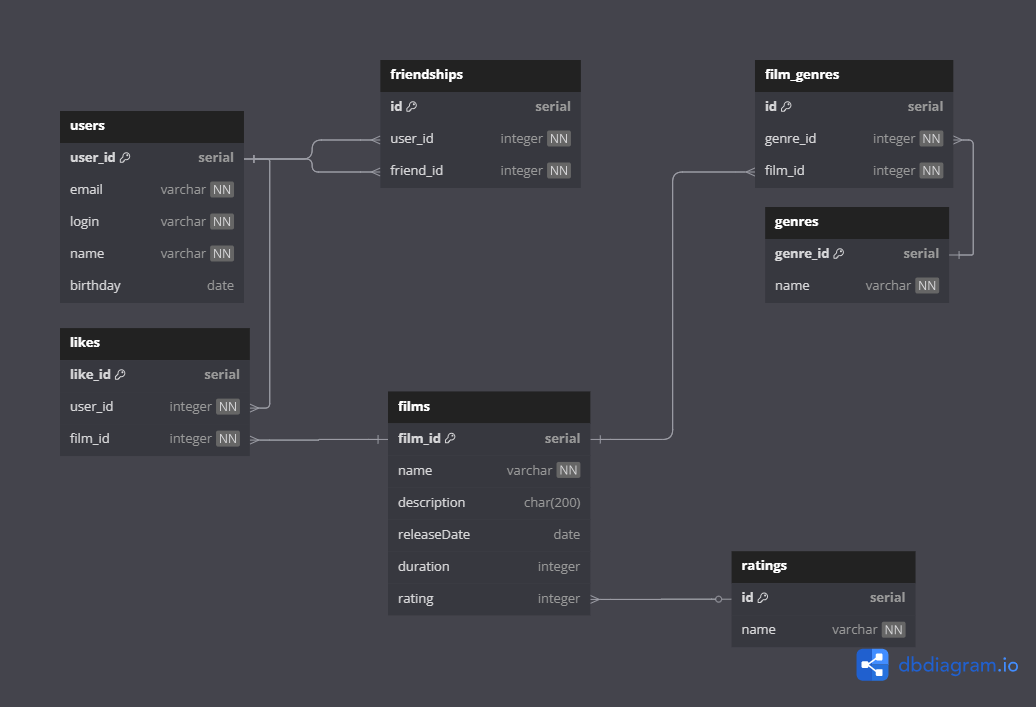
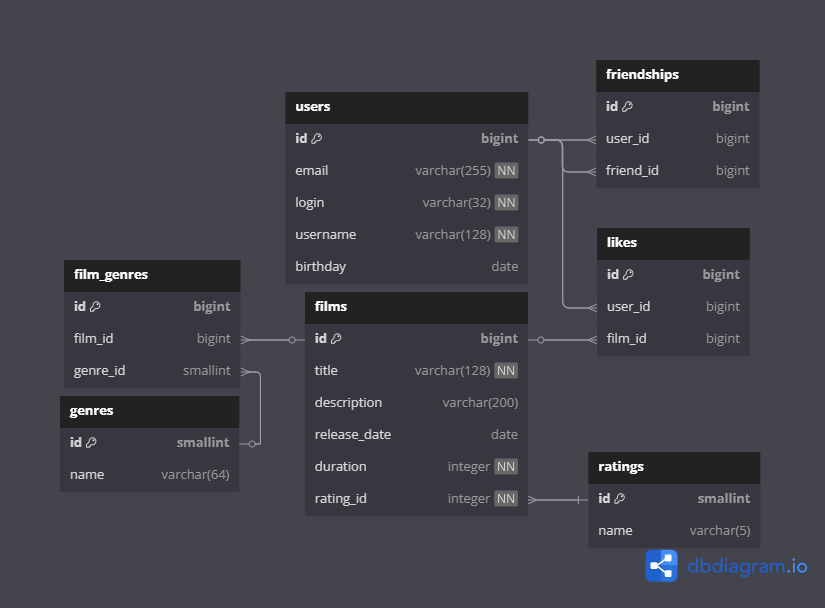
правка схемы бд

diff --git a/README.md b/README.md
@@ -324,35 +324,36 @@ logging.level.org.zalando.logbook: TRACE
 
 ## Таблица `films` (Фильмы)
 
-- `film_id` - уникальный идентификатор фильма (автоинкремент)
+- `id` - уникальный идентификатор фильма (автоинкремент)
 
-- `name` - название фильма (обязательное поле)
+- `title` - название фильма (обязательное поле)
 
 - `description` - описание фильма (максимум 200 символов)
 
-- `releaseDate` - дата выхода фильма
+- `rating_id` - рейтинг фильма (внешний ключ на таблицу ratings)
+
+- `release_date` - дата выхода фильма
 
 - `duration` - длительность фильма в минутах
 
-- `rating` - рейтинг фильма (внешний ключ на таблицу ratings)
 
 
 ## Таблица `users` (Пользователи)
 
-- `user_id` - уникальный идентификатор пользователя (автоинкремент)
-
-- `email` - электронная почта пользователя (уникальное, обязательное поле)
+- `id` - уникальный идентификатор пользователя (автоинкремент)
 
 - `login` - логин пользователя (уникальное, обязательное поле)
 
-- `name` - имя пользователя (обязательное поле)
+- `username` - имя пользователя (обязательное поле)
+
+- `email` - электронная почта пользователя (уникальное, обязательное поле)
 
 - `birthday` - дата рождения пользователя
 
 
 ## Таблица `likes` (Лайки)
 
-- `like_id` - уникальный идентификатор лайка (автоинкремент)
+- `id` - уникальный идентификатор лайка (автоинкремент)
 
 - `user_id` - идентификатор пользователя (внешний ключ на users)
 
@@ -370,7 +371,7 @@ logging.level.org.zalando.logbook: TRACE
 
 ## Таблица `genres` (Жанры)
 
-- `genre_id` - уникальный идентификатор жанра (автоинкремент)
+- `id` - уникальный идентификатор жанра (автоинкремент)
 
 - `name` - название жанра (уникальное, обязательное поле)
 
@@ -379,9 +380,10 @@ logging.level.org.zalando.logbook: TRACE
 
 - `id` - уникальный идентификатор записи (автоинкремент)
 
+- `film_id` - идентификатор фильма (внешний ключ на films)
+
 - `genre_id` - идентификатор жанра (внешний ключ на genres)
 
-- `film_id` - идентификатор фильма (внешний ключ на films)
 
 
 ## Таблица `ratings` (Рейтинги)
@@ -393,183 +395,83 @@ logging.level.org.zalando.logbook: TRACE
 
 
 <details>  
-<summary>Структура БД</summary>
+<summary>Структура DBML</summary>
 
 
-  ```sql
-  
-  Table films {
-  
-    film_id serial [primary key]
-  
-    name varchar [not null]
-  
-    description char(200)
-  
-    releaseDate date
-  
-    duration integer
-  
-    rating integer
-  
-  }
-  
-    
-  
-  Table users {
-  
-    user_id serial [primary key]
-  
-    email varchar [not null, unique]
-  
-    login varchar [not null, unique]
-  
-    name varchar [not null]
-  
-    birthday date
-  
-  }
-  
-    
-  
-  Table likes {
-  
-    like_id serial [primary key]
-  
-    user_id integer [not null]
-  
-    film_id integer [not null]
-  
-  }
-  
-    
-  
-  Table friendships {
-  
-    id serial [primary key]
-  
-    user_id integer [not null]
-  
-    friend_id integer [not null]
-  
-  }
-  
-    
-  
-  Table genres {
-  
-    genre_id serial [primary key]
-  
-    name varchar [not null, unique]
-  
-  }
-  
-    
-  
-  Table film_genres {
-  
-    id serial [primary key]
-  
-    genre_id integer [not null]
-  
-    film_id integer [not null]
-  
-  }
-  
-    
-  
-  Table ratings {
-  
-    id serial [primary key]
-  
-    name varchar [not null, unique]
-  
-  }
-  
-    
-  
-  Ref: films.rating > ratings.id
-  
-    
-  
-  Ref: likes.user_id > users.user_id
-  
-  Ref: likes.film_id > films.film_id
-  
-    
-  
-  Ref: friendships.user_id > users.user_id
-  
-  Ref: friendships.friend_id > users.user_id
-  
-    
-  
-  Ref: film_genres.genre_id > genres.genre_id
-  
-  Ref: film_genres.film_id > films.film_id
+  ```sql  
+Table films {
+  id bigint [primary key]
+  title varchar(128) [not null]
+  description varchar(200)
+  release_date date
+  duration integer [not null]
+  rating_id integer [not null]
+}
   ```
 
-</details>  
+ ```sql  
+Table users {
+  id bigint [primary key]
+  email varchar(255) [not null, unique]
+  login varchar(32) [not null, unique]
+  username varchar(128) [not null]
+  birthday date
+}
+  ```
 
-<details>  
-<summary>Создание таблиц</summary>
+ ```sql  
+Table likes {
+  id bigint [primary key]
+  user_id bigint
+  film_id bigint
+}
+  ```
 
+ ```sql  
+Table friendships {
+  id bigint [primary key]
+  user_id bigint
+  friend_id bigint
+}
+  ```
+
+ ```sql  
+Table genres {
+  id smallint [primary key]
+  name varchar(64)
+}
+  ```
+
+ ```sql  
+Table film_genres {
+  id bigint [primary key]
+  film_id bigint 
+  genre_id smallint  
+}
+  ```
+
+ ```sql  
+Table ratings {
+  id smallint [primary key]
+  name varchar(5) 
+}
+  ```
 ```sql
+Ref: films.rating_id > ratings.id 
 
-CREATE TABLE ratings (
-    id SERIAL PRIMARY KEY,
-    name VARCHAR NOT NULL UNIQUE
-);
+Ref: likes.user_id > users.id
+Ref: likes.film_id > films.id
 
-CREATE TABLE users (
-    user_id SERIAL PRIMARY KEY,
-    email VARCHAR NOT NULL UNIQUE,
-    login VARCHAR NOT NULL UNIQUE,
-    name VARCHAR NOT NULL,
-    birthday DATE
-);
+Ref: friendships.user_id > users.id 
+Ref: friendships.friend_id > users.id 
 
-CREATE TABLE films (
-    film_id SERIAL PRIMARY KEY,
-    name VARCHAR NOT NULL,
-    description CHAR(200),
-    releaseDate DATE,
-    duration INTEGER,
-    rating INTEGER,
-    CONSTRAINT fk_rating FOREIGN KEY (rating) REFERENCES ratings(id) ON DELETE SET NULL
-);
-
-CREATE TABLE genres (
-    genre_id SERIAL PRIMARY KEY,
-    name VARCHAR NOT NULL UNIQUE
-);
-
-CREATE TABLE likes (
-    like_id SERIAL PRIMARY KEY,
-    user_id INTEGER NOT NULL,
-    film_id INTEGER NOT NULL,
-    CONSTRAINT fk_user FOREIGN KEY (user_id) REFERENCES users(user_id) ON DELETE CASCADE,
-    CONSTRAINT fk_film FOREIGN KEY (film_id) REFERENCES films(film_id) ON DELETE CASCADE
-);
-
-CREATE TABLE friendships (
-    id SERIAL PRIMARY KEY,
-    user_id INTEGER NOT NULL,
-    friend_id INTEGER NOT NULL,
-    CONSTRAINT fk_user1 FOREIGN KEY (user_id) REFERENCES users(user_id) ON DELETE CASCADE,
-    CONSTRAINT fk_user2 FOREIGN KEY (friend_id) REFERENCES users(user_id) ON DELETE CASCADE
-);
-
-CREATE TABLE film_genres (
-    id SERIAL PRIMARY KEY,
-    genre_id INTEGER NOT NULL,
-    film_id INTEGER NOT NULL,
-    CONSTRAINT fk_genre FOREIGN KEY (genre_id) REFERENCES genres(genre_id) ON DELETE CASCADE,
-    CONSTRAINT fk_film_genre FOREIGN KEY (film_id) REFERENCES films(film_id) ON DELETE CASCADE
-);
+Ref: film_genres.genre_id > genres.id
+Ref: film_genres.film_id > films.id 
 ```
-
 </details>  
+
+ 
+
 <details>  
 <summary>ER Diagramma</summary>
 
